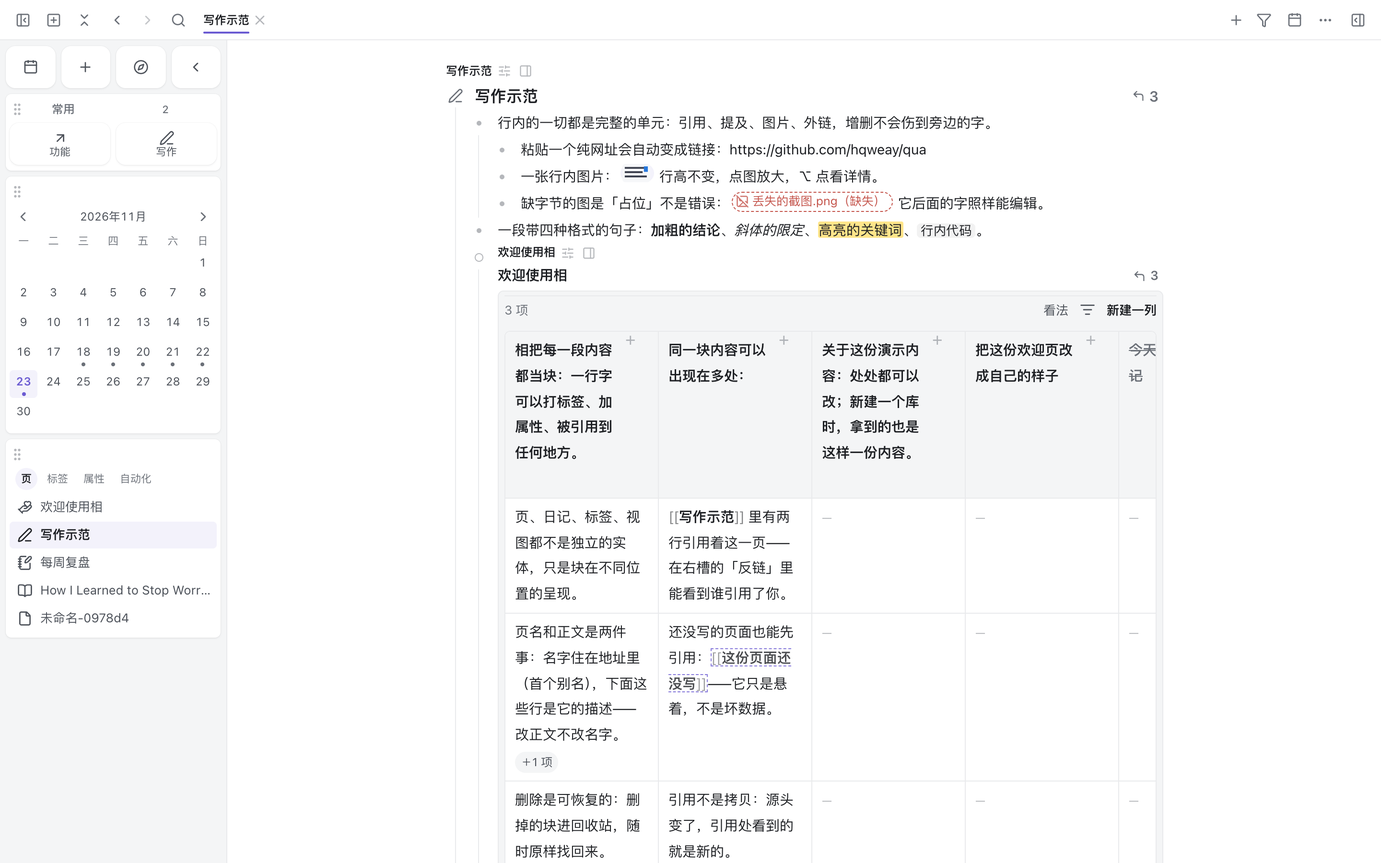
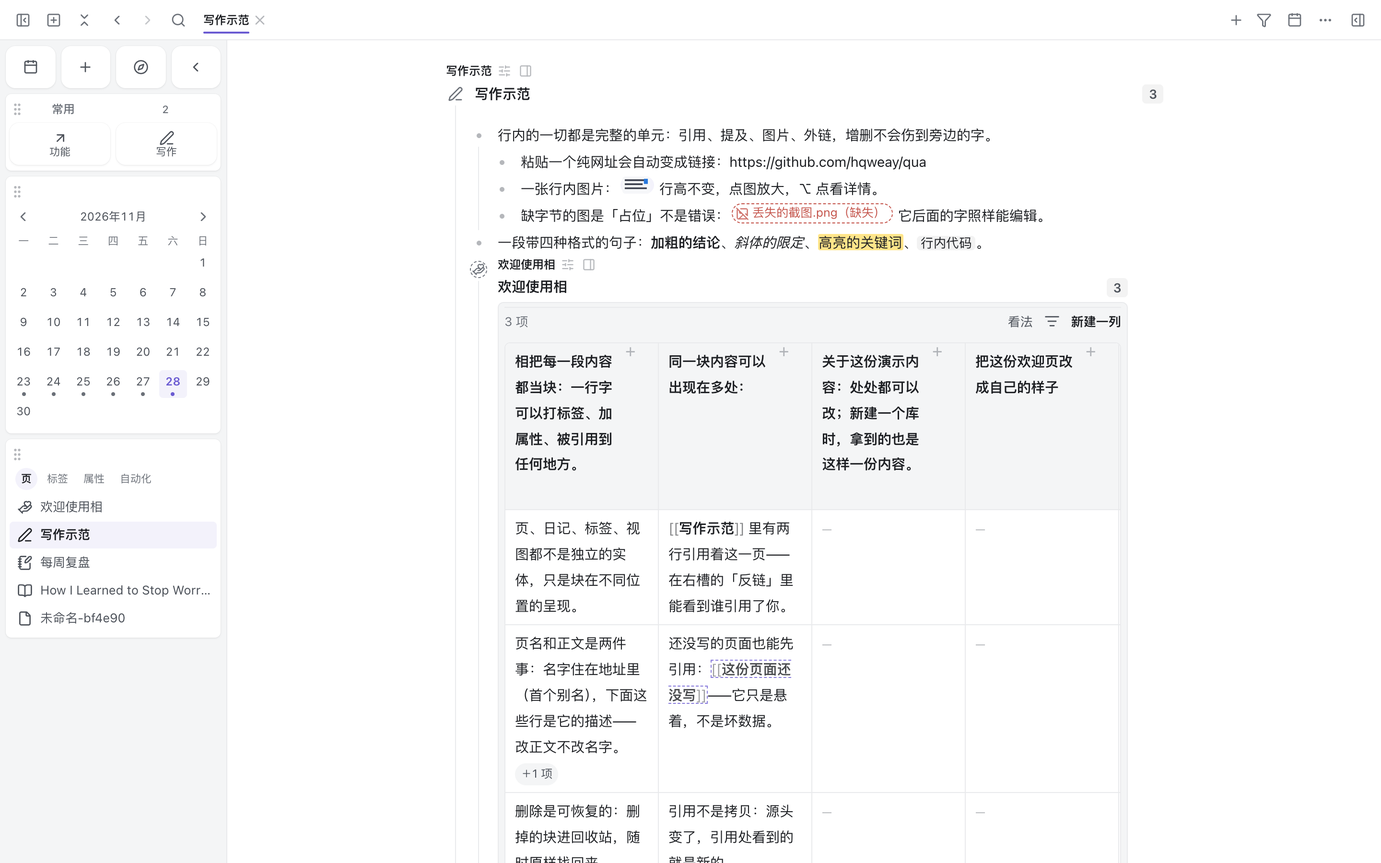
docs: align README, roadmap and the arch diagram with block-owned properties
README (both languages) drops the inspector card, describes the property bar
and the arrow-selection rules, and the roadmap lists only what is actually
left. The arch diagram's dock mock shows a block window and the trash instead
of the retired card. Screenshots are regenerated from the current build,
including a separate English hero image.

diff --git a/public/arch.html b/public/arch.html
@@ -696,7 +696,7 @@
   </div>
 
   <div class="card pad" style="margin-top:18px">
-    <div class="subh">默认布局 <span>左槽＝导航与时间，右槽＝当前块的检视与出处</span></div>
+    <div class="subh">默认布局 <span>左槽＝导航与时间，右槽＝窗口与回收站（反链/成员是页底挂载栏，属性贴在块上）</span></div>
     <div class="mock">
       <div class="slotbox">
         <div class="sh"><span>左槽 · cards</span><span>4 小卡 ＋ 2 卡</span></div>
@@ -714,14 +714,10 @@
         </div>
       </div>
       <div class="slotbox">
-        <div class="sh"><span>右槽 · cards</span><span>3 卡</span></div>
+        <div class="sh"><span>右槽 · cards</span><span>窗口卡 ＋ 1 卡</span></div>
         <div class="mcard solo">
-          <div class="h"><span>检视 · 当前块</span><span class="dots">⌄ ⤢ ✕</span></div>
+          <div class="h"><span>窗口 · 某一块</span><span class="dots">⌄ ⤢ ✕</span></div>
           <div class="b"><div class="l m"></div><div class="l"></div><div class="l s"></div><div class="l"></div></div>
-        </div>
-        <div class="mcard">
-          <div class="h"><span>反链</span><span class="dots">⌄ ⤢ ✕</span></div>
-          <div class="b"><div class="l"></div><div class="l m"></div></div>
         </div>
         <div class="mcard">
           <div class="h"><span>回收站</span><span class="dots">⌄ ⤢ ✕</span></div>
@@ -730,7 +726,7 @@
       </div>
     </div>
     <div class="note" style="margin-top:10px">
-      示意里三件事各示范一处：<b>小卡</b>是格子不是卡片；<b>归属树</b>是「收起」（<code>data-collapsed</code>，body 隐藏、编辑器还在）；<b>检视</b>是「单卡」（槽层 <code>data-solo</code>，其它卡让位但状态不变）。
+      示意里三件事各示范一处：<b>小卡</b>是格子不是卡片；<b>归属树</b>是「收起」（<code>data-collapsed</code>，body 隐藏、编辑器还在）；<b>窗口卡</b>是「单卡」（槽层 <code>data-solo</code>，其它卡让位但状态不变）。
       收起的卡与单卡的目标都<b>按 id 记在设备状态里</b>，所以拖到另一槽、刷新、重开都还在。
     </div>
   </div>

diff --git a/README.en.md b/README.en.md
@@ -6,6 +6,8 @@ A desktop outliner built for notes you'll write once and use again and again.
 
 In Qua, every line you write is an independently actionable unit: tag it, give it properties, reference it from anywhere, drag it into a table or board to rearrange it, or mirror it onto multiple pages. Change it in one place and every place it appears updates in sync—content never gets locked inside the page where you wrote it.
 
+Properties live on the block too: focus a block and a property bar stands up under it, with the empty fields folded into one line; who it is (name, icon, lists) and whom it belongs to live in the properties drawer. Both entries edit the same values, so you never have to hunt for a side panel first.
+
 ![Qua's default interface: the body is an editable tree of blocks, with toggleable side docks on both edges](shots/readme-hero-en.png)
 
 ---
@@ -74,21 +76,21 @@ Switching views never rearranges content, and changing a view never touches data
 
 ## What you can do
 
-**Write**: the body is an editable tree of blocks. Bold, italic, highlight, inline code, text color, and background color all travel with the text; `[[references]]`, `#tags`, `@names`, external links, and images are self-contained inline units, so adding or deleting them never damages the characters nearby—deleting at the end of a line won't break a reference into stray characters, and deleting text won't turn a tag into a handful of `#` symbols. Shortcuts step aside during IME composition, so Chinese input is never interrupted. Select a span of text to add a **note** (comments follow the text) or set a color from the selection bubble; cross-block selections under the same parent block can be deleted or edited directly (the first and last paragraphs merge into one). Select several blocks to drag them as a group, delete them in bulk, or indent them—`⌘⇧A` upgrades "this line's text" to "these blocks".
+**Write**: the body is an editable tree of blocks. Bold, italic, highlight, inline code, text color, and background color all travel with the text; `[[references]]`, `#tags`, `@names`, external links, and images are self-contained inline units, so adding or deleting them never damages the characters nearby—deleting at the end of a line won't break a reference into stray characters, and deleting text won't turn a tag into a handful of `#` symbols. Shortcuts step aside during IME composition, so Chinese input is never interrupted. Select a span of text to add a **note** (comments follow the text) or set a color from the selection bubble; cross-block selections under the same parent block can be deleted or edited directly (the first and last paragraphs merge into one). Select several blocks to drag them as a group, delete them in bulk, or indent them—`⌘⇧A` upgrades "this line's text" to "these blocks". At the start of the text press `↑` again, at the end press `↓`, and the neighbouring block gets selected; keep going and objects (queries, code, callout headers, mirrors) are selected one by one, while a plain text row hands the caret back so you can keep typing.
 
-**Callouts** are line-by-line containers: the header only shows the tone, and clicking it switches among seven tones (quote / info / warning / error / tip / important / note). Every line is its own block with its own id and can be referenced separately; indent one level and it becomes an ordinary block, while the tone's rail runs through the whole group. The tone is a **value**, not a type—a query can filter "callout type = warning" in one condition. The slash menu (/quote), the block menu ("Turn into ▸ Quote"), and pasting Markdown's `>` all produce the same shape.
+**Callouts** are line-by-line containers: the header only shows the tone, and clicking it switches among seven tones (quote / info / warning / error / tip / important / note). Every line is its own block with its own id and can be referenced separately; indent one level and it becomes an ordinary block, while the tone's rail runs through the whole group. The tone is a **value**, not a type—a query can filter "callout type = warning" in one condition. The types themselves are editable: create one from the header menu, give it a name, an icon and a color; the built-in "quote" is the one you can't delete. The slash menu (/quote), the block menu ("Turn into ▸ Quote"), and pasting Markdown's `>` all produce the same shape.
 
 **Code blocks** show their language in a badge on the title row; click the badge to switch (59 languages have real syntax and are searchable). The editing surface is CodeMirror: syntax highlighting, auto-indent, bracket matching, in-block search (`⌘F`), multiple selections, and IME, with undo shared with the rest of the app. The code lives in the block's body and the title is its name; the body folds on its own while the title and language badge stay put. Code blocks hold no bold, references, or tags—it is code, not rich text.
 
 **Paste Markdown** is an explicit command (`⌘P` → "Paste Markdown", or the block menu): headings become a tree of parent and child blocks, lists become indented blocks, `>` becomes a callout, fenced code becomes a code block, and bold / italic / strikethrough / links / inline code land as usual. Syntax the model can't hold yet—tables, task lists—is kept verbatim with a one-line notice: nothing is silently swallowed and nothing pretends to have converted. The default `⌘V` is untouched.
 
-**Body folding** is a second fold position: the button on the row head collapses only the body while the children stay; the triangle on the left collapses the whole subtree. Code blocks and query blocks have bodies, and so can ordinary blocks; the two folds are independent.
+**Body folding** is a second fold position: the button on the row head collapses only the body while the children stay; the triangle on the left collapses the whole subtree. Code blocks and query blocks have bodies, and so can ordinary blocks and field definitions; the two folds are independent.
 
 ![Slash menu: type / at the start of a line to insert a to-do, callout, code block, reference, date, or image in place](shots/overlay-斜杠菜单.png)
 
 **Capture**: quick notes land in today's daily note; `⌘T` brings you back to today any time, `⌘⇧R` reviews the last three days (`⌘⌥⇧R` the last seven); `@` mentions pages and blocks, creating a page on the spot if no page with that name exists; every daily note and page can be given an **icon and color**, so you can tell at a glance what's what. The daily-note host also carries a few built-in sections: references, created today, notes, and mentions.
 
-**Organize**: a block can belong to several tags at once, and tags themselves can be hierarchical. The **Directory** card in the left panel spreads the library's structural objects across four faces—pages, tags, property definitions, automations. The first two lay out the membership tree: dragging a block in adds a membership relation, it doesn't move the block. The last two are flat lists by identity and read-only. Properties are declared on tags, written on each block itself, and edited in place in the inspector card on the right. There are seven property types: text, number, date, switch, option, reference, and attachment. Text can carry formatting (link / email / phone), and dates can be a date or a date-time; text, number, option, reference, and attachment values can hold **multiple values**, shown as a row of chips. A reference property can restrict its candidates (blocks under certain tags, a hand-picked set, or a query's results) and renders as a chip or an inline reference you can edit in place; an attachment value can be an external link or a local image imported into the library. Mark an option field as "task status" and ticking it completes the block, sharing the same interactions and queries as built-in to-dos.
+**Organize**: a block can belong to several tags at once, and tags themselves can be hierarchical. The **Directory** card in the left panel spreads the library's structural objects across four faces—pages, tags, property definitions, automations. The first two lay out the membership tree: dragging a block in adds a membership relation, it doesn't move the block. The last two are flat lists by identity and read-only. Properties are declared on tags, written on each block itself: focus a block and a property bar stands up under it, and the small icons beside the block marker, that bar, and the properties drawer all edit the same values. There are seven property types: text, number, date, switch, option, reference, and attachment. Text can carry formatting (link / email / phone), and dates can be a date or a date-time; text, number, option, reference, and attachment values can hold **multiple values**, shown as a row of chips. Option records carry their own icon and color, and the value icon beside the block marker takes that color. A reference property can restrict its candidates (blocks under certain tags, a hand-picked set, or a query's results) and renders as a chip or an inline reference you can edit in place; an attachment value can be an external link or a local image imported into the library. Mark an option field as "task status" and ticking it completes the block, sharing the same interactions and queries as built-in to-dos.
 
 When references point at the wrong target, you don't have to fix them one by one: the header of the backlinks bar and of a tag's members bar both offer "**Retarget…**"—pick a new target once and that whole batch of references moves over, undoable in one step.
 
@@ -112,7 +114,7 @@ Several kinds of atoms can live inside one block's text. The shape itself carrie
 |---|---|---|
 | `[[Page name]]` | page reference | bold with double brackets; click to go there, `Shift+click` opens it in a dock window |
 | `#Name` | inline tag / inline instance | takes one slot in the text; points at a tag or a record—it does **not** tag the block for you |
-| the chip at line end | tag **membership** | decided by the block's own tags; deleting text doesn't remove it—remove it explicitly in the inspector |
+| the chip at line end | tag **membership** | decided by the block's own tags; deleting text doesn't remove it—remove it explicitly from the block menu or the property bar |
 | the triangle (left of the chip) | this tag has fields | click to fill values in place; tags without fields don't get a triangle |
 | `@Name` | reference to a page or a named block | once an ordinary block has a name, `@` finds it just like a page |
 | image / external link | inline atom | images are content-addressed, so pasting twice stores once; a link opens in your system browser |
@@ -137,6 +139,7 @@ Tags answer "whose content is this"; field values answer "what does this content
 | `⌘F` | inside a code block = in-block search; elsewhere = app search |
 | `⌘Z` / `⌘⇧Z` | undo / redo (while the editor has focus) |
 | `⌘⇧A` | select this line → these blocks |
+| `↑` / `↓` (at the edges of the text) | select the previous / next block; objects are selected one by one, plain text rows hand the caret back |
 | `⌘P` | command palette (also holds actions without a keybinding; palette commands can all be assigned keys in Settings) |
 | `⌘K` | global search (always available; inserting a link lives in the slash menu and block menu) |
 | `⌘T` / `⌘⇧R` | back to today's journal / review the last three days |
@@ -146,7 +149,7 @@ Tags answer "whose content is this"; field values answer "what does this content
 
 Mouse: the block handle sits to the left of each row and turns into a drag grip on hover; left-click focuses, right-click opens the menu, drag reorders. `Shift+click` opens a window in the side dock, `⌥+click` shows property details in place, and `⌘⌥+click` (`Ctrl+Alt+click` on Windows/Linux) opens the block in its parent and scrolls to it. Rows in record views (table / cards / list / calendar) open the same block menu on right-click—the menu opens for the block you clicked, deletion and copying are undoable, and only actions that make sense for a block appear (indent/fold and other editor-dependent ones don't).
 
-Callout behavior lives in the header: click the tone badge to switch variants; the slash menu, block menu, and Markdown paste all create them. Code-block behavior lives in the title row: click the language badge to switch languages; the row-head button folds only the body.
+Callout behavior lives in the header: click the tone badge to switch variants, and the same menu creates and manages your own types. Code-block behavior lives in the title row: click the language badge to switch languages; the row-head button folds only the body.
 
 ---
 

diff --git a/docs/ROADMAP.md b/docs/ROADMAP.md
@@ -3,7 +3,8 @@
 > 这份只写**接下来做什么、按什么顺序**。已做成的能力在 [`../README.md`](../README.md)「能做什么」，
 > 每条约束**为什么存在**在 [`ARCH-断言.md`](ARCH-断言.md) 与 [`模型-一切皆块.md`](模型-一切皆块.md)。
 
-当前阶段：**beta**（桌面安装包从 0.1.0-beta.1 起挂 Releases）。输入面形状与三张表已钉死，桌面端真实存储（SQLite 行存储、多库、全文检索）已落地；这份只列还没做的，已做成的能力看 README 与 STATUS。
+当前阶段：**beta**（桌面安装包从 0.1.0-beta.1 起挂 Releases）。输入面形状与三张表已钉死，
+桌面端真实存储（SQLite 行存储、多库、全文检索）已落地；这份只列还没做的。
 
 ---
 
@@ -20,117 +21,54 @@
 
 ---
 
-## 1 现在这一格：把「引用」变成一等公民
+## 1 现在这一格：数据出得去
 
-### 1.1 RefResolver —— 引用要跟着目标改名 ✅ **已落地**
+「写下来之后还要反复使用」的下限是**内容能完整离开这个应用**：一旦哪次格式升级没保住数据，
+用户手上至少还有一份能带走的文件。这也是「重放等于状态」的第一个真实出口。
 
-**现状**：~~引用的 `label` 是插入时的快照，目标改名后引用还显示旧名。~~
-**已做**：`core/ref.ts` 的 `resolveRef(find, atom)` 在**渲染时**解析目标当前正文，
-`label` 降级为「解析不到时的兜底」；`Atom.state` 落盘字段删掉（能不能解析到是派生的，不落盘）。
-**验收**：改页名 ⇒ 所有引用立刻显示新名（且不回写原子）；目标被删 ⇒ 显示为 dangling 而不是错指。
-（冒烟 `T39`，单测 `tests/ref.test.ts`。）
-
-**已知残留**：解析走 `store.find` 遍历森林（每个引用 O(n)），大库下要等 1.3 的反向索引。
-
-### 1.2 标签＝块上的一格分类 ✅ **已落地**
-
-**现状**：~~`#tag` 只是正文里的文本，所以**标签产生不了反链**。~~
-**已做**：标签＝一个 `_lists` 含 `tag` 的**块**（名字住在 `_aliases`，正文是描述），归属＝打标签那个块上的
-`props._tags`（有序的标签块 id 列表），渲染成行尾 chip（不占正文）。
-判据：**归属只有一份**（`props._tags`），写它的入口只有块级那一处。正文里敲 `#名` 是**提及**：
-一枚占 1 格的引用 run（指向标签类或一条实例），敲下分隔符或回车才生效，**不写归属** ——
-所以提及某个标签不会让这块成为它的成员，也不会长出它的字段。
-两者在显示上同时存在：提及是正文里的一格，chip 是行尾的一枚——同屏可见，形状不同。
-**删字不摘标签**：删掉正文里那枚只是不再提它，归属仍在、chip 不动；摘标签是一次显式动作
-（检视卡的「标签」一行可以挂/摘；摘时把正文里那枚一起收掉）。
-**验收**：给块打标签 ⇒ 它出现在标签的成员列表里；成员是从块上的归属派生出来的。
-（冒烟 `T40`／`T58`／`T58b`，单测 `tests/tags.test.ts`。）
-
-**已知边界**：`#` 的自动补全已落地（`#` 紧接正文触发浮层：实例／标签／新建三栏）；
-`cleanableValues` 的清理提示在「摘标签」入口接上后仍未回到面板（派生有单测）。
-（字段声明与标签层级已落地，见 1.4。）
-
-### 1.3 IndexPort —— 反链不再全库扫 ✅ **已落地**
-
-**现状**：~~每次算反链都扫全库，`rebuild` 与 `incremental` 没有一致性保证。~~
-**已做**：`core/index-port.ts` 的五张派生表（块 / 入向边 / 标签成员 / 名字与日期 / 归属页），
-`BlockStore` 懒重建缓存；`find` 与反链改走查表，不再遍历森林。
-**验收**：同一批操作，先 rebuild 再与增量累积结果**逐字节一致** —— 已兑现，
-并覆盖四个增量失效点（文本编辑 / 原子增删 / 目标删除 / 块移动）。
-
-**粒度说明**：变化通知目前只能报「整类对象都动过」，所以增量只能做到「没动的那一类不重建」。
-按块粒度要等事务层产出具体的块 id；那时 `applyChanges` 的形状不变。
-
-**顺带修掉的真 bug**：删页会直接改森林、再换视图，而「换视图」不发变更通知 ⇒
-索引停在旧库上，**删掉的页仍能被查到**。现在两条旁路都显式作废索引。
-
-> 1.1 → 1.2 → 1.3 有依赖：先有「解析」，才谈得上「边的语义」，最后才谈得上「索引」。
-> **三条都已完成。**
-
-### 1.4 标签 / 页 / 属性的统一 ✅ **已落地**
-
-**已做**：**地址与露面分开**——名字住在 `props._aliases`（0..N，首个是主名，全局唯一，允许 `/` 分段、
-显示叶子），正文（`content` 的文本投影）是描述；页/标签是 `props._lists` 里的两个**露面**（可兼位、可空，顺序无语义，
-判定只走 `hasList` 家族）· 行头的**别名编辑器**（加/删名字、设主名、勾页/标签列表、切换显示别名或文本）·
-页与标签共用**地址空间**（`_aliases` ＋ 一处归一化，`# 设计 `／`#设计`／`[[设计]]` 同一块）·
-字段定义是**独立块**（有 `_kind` 的块，住森林顶层，`propId` ＝ 块 id）· 值在块上 `props[propId]`（一块一槽）·
-属性平铺 ＋ 来源标注（同一 `propId` 只一行；画在**右槽的检视卡**上，跟着当前对象走）· 摘标签提示清理（默认保留，可撤销）·
-标签层级（属于/包含，一条边两个读法；成员**算作**、**字段不继承**；写入禁环；删父留可见悬空）。
-
-**验收**：`tests/alias.test.ts` · `tests/lists.test.ts` · `tests/props.test.ts` · `tests/tag-tree.test.ts`；
-冒烟 `T39`（显示名与改名）· `T51`（属性区）· `T52`（层级与算作）· `T53`（列表露面）。
-
-**已知边界**：`ref` 值的专用选择器与选项编辑器已落地（候选域、多值、图标入口）；字段定义列表视图（按露面筛选）后置。
-
----
-
-## 2 真实存储（桌面版已落地，余浏览器端）
-
-### 2.1 Tx / Changes —— ~~写盘不再整库序列化~~（桌面版已落地）
-
-**现状**：桌面版已经不是整库序列化了 —— 每个库一份 `qua.db`，块是**自己的行**
-（`Block`／`BlockProperty`／`BlockAlias`／`BlockList`），一次编辑只写它动过的那几块。
-**验收**：`tests/storage/db-rows.test.ts`（小库与大库的落盘行数必须相同）＋
-`checks/electron-smoke.mjs` 的 E12（真 Electron 里数行）。
-**还剩**：浏览器端仍是整份字节（浏览器没有库目录的同等语义）；`Change[]` 仍可能报「整类都动过」
-（那是「确实不知道」的如实表达，不是漏做）。
-
-### 2.2 SQLite 适配器 —— ~~已完成~~（桌面版就是它）
-
-端口不变、只换实现已经做到：`createWorkspaceStore(createIpcAdapter(...))`，**renderer 的业务代码一行没改**。
-**还剩**：装载仍是整份读（运行模型是「整片森林在内存」）；按 id／按页的局部装载要等查询与反链也走 SQL。
-
-### 2.3 备份 / 导出
+### 1.1 导出 / 备份文件（未做）
 
 **现状**：读盘失败会进只读态（不覆盖）；开发构建的调试菜单已有「备份并重建本地库」——
-原始字节先抄到 `qua.workspace.bak.<时刻>`，备份失败就中止覆盖。
-**还缺**：用户面的「把当前库导出成文件」出口。这是数据安全的下限，不该排在很后面。
+原始字节先抄到 `qua.workspace.bak.<时刻>`，备份失败就中止覆盖；换数据格式前桌面版会自动
+在库目录 `backups/` 留一份整库快照。**还缺**：用户面的「把当前库导出成文件」出口。
+
+**要做**：JSON（块 ＋ 属性 ＋ 资产清单）＋ `assets/` 字节的一份打包，round-trip 进门禁
+（导出的库重新导入后与导出前逐块相等）。顺手拍三个小口径：快照是否打包资产字节、
+恢复后全文索引回 `pending` 重建、资产回收与导出文件的关系。
+
+### 1.2 Markdown 导出（口径已定，未实现）
+
+单向投影，不是 round-trip：页／日记一文件，页标题 `#`，内容按嵌套列表投影，
+子页单独成文件并以链接相连；代码块按围栏、引述按引用块投影，自定义语气在文件里降级成普通引述。
+**不做**「缩进深度 → 标题层级」。JSON 才是往返格式，Markdown 是给人看的。
 
 ---
 
-## 3 输入面的未完成项
+## 2 壳与发布
+
+- **签名与公证**（现在 `.app` 未签名，换机器会被 Gatekeeper 拦；Windows 同理）
+- **自动更新** ✅ **已落地（0.1.0-beta.9 起）**：通知 ＋ 应用内下载——每 5 小时查一次发布源，
+  有新版菜单换成「有新版 X…」；点开可把本平台的安装包下载到「下载」文件夹并打开，
+  下载中 Dock／任务栏显示进度，最后一步安装由用户完成。
+  **还缺**：**后台下载→重启即完成仍要等签名**——macOS 上那一步由系统组件完成，
+  它判断「新包是不是我发的」只看代码签名，未签名的包装不进去。
+- **CSP 收紧**（现在 `default-src 'self'` 够用，但还没逐项审）
+- **深色跟随系统**在真机上复核一次
+
+---
+
+## 3 输入面与大文档的余项
 
 | 项 | 现状 | 要做 |
 |---|---|---|
-| **跨块编辑** | 同一父块下的跨块选区可以直接删改（首尾两段拼成一块）；跨父块、或首块是段根（页／日记正文第一层）时仍不支持 | 把这两类边界补上 |
-| **`⌘F` 就地查找** | 全局搜索住 `⌘K`，命令面板住 `⌘P`；`⌘F` 无绑定（契约上留给就地查找/替换） | 落进「上下文键」而不是全局劫持 |
-| **多行块（代码/SQL）** | 只有单行原子 | 独立编辑器实例，**不塞进同一个 contenteditable** |
-| **虚拟化滚动联动** | 已窗口化挂载，但滚动与选区投影没有联动 | 见 `docs/ELECTRON-备忘.md` 里实测到的「组合期块被卸载」 |
-| **Undo 粒度** | ✅ 按事务记 touched 块的前后态，⌘Z 与库体量无关 | — |
+| **跨块编辑的边界** | 同一父块下的跨块选区可以直接删改（首尾两段拼成一块）；跨父块、或首块是段根（页／日记正文第一层）时仍不支持 | 把这两类边界补上 |
+| **虚拟化的默认档** | 已窗口化挂载，行高按实测缓存；开关仍默认关。日记流／多段文档还有两处估高缺口（段间留白、折行长块） | 先补段边界与折行估高，再谈默认打开 |
+| **装载形状** | 启动仍把整片森林读进内存 | 按 id／按页的局部装载，等查询与反链也走 SQL |
+| **行内语义尺寸** | 没有「同一行里放大／缩小几个字」的格式位 | 等真实需求（导出／打印逐段保真）再立项 |
 
 ---
 
-## 4 壳与发布
-
-- **签名与公证**（现在 `.app` 未签名，换机器会被 Gatekeeper 拦）
-- **CSP 收紧**（现在 `default-src 'self'` 够用，但还没逐项审）
-- **深色跟随系统**在真机上复核一次（当前环境测不出媒体查询的变化）
-- **自动更新** ✅ **已落地（0.1.0-beta.9 起）**：通知 ＋ 应用内下载——每 5 小时查一次发布源，有新版菜单换成「有新版 X…」；点开可把本平台的安装包下载到「下载」文件夹并打开，下载中 Dock／任务栏显示进度，最后一步安装由用户完成。
-  **还缺**：**后台下载→重启即完成仍要等签名**——macOS 上那一步由系统组件完成，它判断「新包是不是我发的」只看代码签名，未签名的包装不进去。
-
----
-
-## 5 明确**不做**（至少现在）
+## 4 明确**不做**（至少现在）
 
 | 不做 | 为什么 |
 |---|---|
@@ -139,10 +77,11 @@
 | 皮肤 / 主题市场 | 主题只填 `--ui-*` 的机制已经在了，等真正有第三方需求再说 |
 | 兼容旧落盘格式 | 原型阶段 `WORKSPACE_VERSION` 加一即作废，写迁移是纯负债 |
 | 移动端 | 要等「事务 + 同步」落地之后；现在做只能做出一个分叉的模型 |
+| 云同步 / 插件 / AI | 只保接缝：写入走 op 流、视图配置可序列化、命令面是唯一入口 |
 
 ---
 
-## 6 怎么贡献
+## 5 怎么贡献
 
 挑 `§1`–`§3` 里任意一条开 issue 说你要做哪条、打算怎么验。
 **判断标准写在验收那一行**——如果你的实现能让那条验收从「不成立」变成「成立」，它就是对的。

diff --git a/README.md b/README.md
@@ -8,6 +8,9 @@
 拖进表格或看板重新排列、镜像到多个页面。改动任何一处，所有出现它的地方同步更新——
 内容不会被锁死在写下它的那个页面里。
 
+属性也长在块上：聚焦一块，它下面立起属性栏，没填的栏收成一行；它是谁（名字、图标、露面）
+与它属于谁在属性抽屉里。两个入口改的是同一份值，不需要先找到一张旁栏。
+
 ![相 / Qua 的默认界面：正文是一棵可编辑的块树，两侧是可开关的侧槽](shots/readme-hero.png)
 
 ---
@@ -105,11 +108,14 @@
 选中一段字，还能从划选气泡里写**备注**（批注跟字走）或设置颜色；
 同一父块下的跨块选区可以直接删改（首尾两段拼成一块）。选中多块可以整组拖动、
 批量删除与缩进——`⌘⇧A` 把「这一行的字」升级成「这些块」。
+光标在正文开头再按 `↑`、在结尾再按 `↓`，就地选中上／下一块；一路按下去，
+对象（查询、代码、引述抬头、镜像）逐个选中，碰到普通正文行则落回光标继续打字。
 
 **引述**是一行一行的容器：抬头只画语气，点开在七种语气之间切换
 （引述／信息／警告／错误／提示／重要／注意）。每一行都是独立的块，有自己的 id，
 可以单独被引用；缩进一层就是普通块，语气竖线贯穿整组。语气是**值**不是类型——
-查询条件里能按「引述类型」一次筛出所有警告。斜杠 `/引文`、块菜单「转为 ▸ 引文」、
+查询条件里能按「引述类型」一次筛出所有警告。类型本身也能改：在抬头菜单里新建一种，
+给它取名、换图标与颜色，内置的「引述」保底不可删。斜杠 `/引文`、块菜单「转为 ▸ 引文」、
 粘贴 Markdown 的 `>` 三条入口造的是同一个形状。
 
 **代码块**把语言写在标题行的徽章上，点徽章就能换（59 门有真实语法，可搜）。
@@ -124,7 +130,7 @@
 按原文保留，并给一句提示——不静默吞掉，也不假装转换成功。默认 `⌘V` 不动。
 
 **身体折叠**是第二个折叠位：行头那颗按钮只收身体，子块还在；左侧三角才收整棵子树。
-代码块、查询块有身体，普通块也能有；两者互不牵连。
+代码块、查询块有身体，普通块与定义块也能有；两者互不牵连。
 
 ![斜杠菜单：行首敲 /，就地插入待办、引述、代码块、引用、日期、图片](shots/overlay-斜杠菜单.png)
 
@@ -135,9 +141,11 @@
 **组织**：一个块可以同时属于多个标签，标签自己也能有层级。左槽的**目录**把库里的
 结构对象摊成四面：页、标签、属性定义、自动化——前两面按归属边摊成树，把块拖进去
 就是加一条归属，不是搬家；后两面按身份平铺，只读。属性声明在标签上，值写在每块
-自己身上，在右侧检视卡里就地编辑。属性有七种：文本、数字、日期、开关、选项、引用、附件。
+自己身上：聚焦一块时它下面立起属性栏，块标旁那几枚小图标、行下那一栏与属性抽屉改的是
+同一份值。属性有七种：文本、数字、日期、开关、选项、引用、附件。
 文本可以带格式（链接／邮箱／电话），日期可以是日期或日期时间；
 文本、数字、选项、引用、附件都能存**多个值**，显示成一行 chips。
+选项记录自己带图标与颜色，块左侧那枚值图标就按它染。
 引用类型的属性可以限定候选范围（某些标签下、指定几个块、或一个查询的结果），
 显示成 chip 或就地可编辑的行内引用；附件类型的值可以贴外链，也可以选本地图片入库。
 把一个选项字段标为「任务状态」后，勾选即完成，和内置待办走同一套交互与查询。
@@ -181,7 +189,7 @@
 |---|---|---|
 | `[[页名]]` | 页引用 | 粗体＋双方括号；点开即达，`Shift+点击` 在侧槽开窗 |
 | `#名字` | 行内标签／行内实例 | 占正文一格；指向标签或一条记录，**不会**替你打上标签 |
-| 行尾 chip | 标签**归属** | 由块自己的标签决定；删掉正文里的字不会摘掉它，要摘得在检视卡里显式摘 |
+| 行尾 chip | 标签**归属** | 由块自己的标签决定；删掉正文里的字不会摘掉它，要摘得在块菜单或属性栏里显式摘 |
 | 三角（在 chip 左侧） | 这个标签有字段 | 点开就地填值；没有字段的标签不硬画三角 |
 | `@名字` | 引用页或取过名的块 | 给普通块起名之后，它和页一样能被 `@` 到 |
 | 图片／外链 | 行内原子 | 图片按内容寻址，贴两次只存一份；外链点一下交给系统浏览器 |
@@ -207,6 +215,7 @@
 | `⌘F` | 在代码块里＝块内搜索；在别处＝应用搜索 |
 | `⌘Z` / `⌘⇧Z` | 撤销 / 重做（编辑器聚焦时） |
 | `⌘⇧A` | 选中这一行 → 这些块 |
+| `↑` / `↓`（正文首尾处） | 选中上／下一块；对象逐个选中，普通正文行落回光标 |
 | `⌘P` | 命令面板（没绑键的动作也在这里；面板里的命令都能在设置里配键） |
 | `⌘K` | 全局搜索（随时可用；插入链接在斜杠菜单和块菜单里） |
 | `⌘T` / `⌘⇧R` | 回到今日日记 / 复盘最近三天 |
@@ -220,7 +229,7 @@
 记录视图（表格／卡片／列表／日历）里的行也能右键同一张块菜单——菜单按被点的那一块打开，
 删除与复制都进撤销；只出现对块有意义的动作（缩进／折叠这类需要编辑器的不会出现）。
 
-引述的行为在抬头上：点语气徽章换变体；斜杠、块菜单、粘贴 Markdown 都能造。
+引述的行为在抬头上：点语气徽章换变体，同一张菜单里也能新建与管理自己的类型。
 代码块的行为在标题行：点语言徽章换语言，行头按钮只折身体。
 
 ---

diff --git a/docs/设计-Widget.md b/docs/设计-Widget.md
@@ -84,7 +84,8 @@ Shift+点＝临时打开（重启即清，除非 pin）。
 盘的 body 也是这个流（§3）——它不新增第二种排版。
 
 默认左槽：四个快捷（回到今日／新建页面／命令面板／前一天）＋ 日历 ＋ 归属树；
-右槽：检视卡 ＋ 反链。
+右槽：回收站。反链与成员是页底／块窗口底部的挂载栏（跟着内容走），块属性贴在块上
+（聚焦时的行下属性栏与属性抽屉），两者都不进槽。
 
 ---
 
@@ -241,8 +242,8 @@ Shift+点＝临时打开（重启即清，除非 pin）。
 **静置只剩「上下文」**：按钮淡出、永远占位，悬停这张卡／键盘聚焦时进场；显形前后列与右缘不动
 （A24 的列不变量在显形时刻成立），没有「半颗按钮透明仍占位」的虚边（那条虚边是早先
 `✕` 用 `opacity: 0` 的实测坑）。静置时卡头若显示文字，唯一职责是说出**正文看不出的上下文**
-（窗口卡的块路径、盘的小卡数）——正文自己报得出名字的卡（日历／归属树／反链／回收站／
-检视／搜索）静置只剩把手标（grip），名字随 hover 进场：让「日历」压在月份导航上，
+（窗口卡的块路径、盘的小卡数）——正文自己报得出名字的卡（日历／归属树／回收站／
+搜索）静置只剩把手标（grip），名字随 hover 进场：让「日历」压在月份导航上，
 等于在卡顶叠两套对齐语法的头，名字读作漂浮的碎字。没有字的把手条由 grip 站出来——
 把手条本来就是把手。**收起的卡＝它的头**，全键与标题常驻。
 卡头不能整条隐藏或浮在内容上：把手会压住正文第一行（日历的月份导航、窗口卡的首行

diff --git a/AGENTS.md b/AGENTS.md
@@ -274,8 +274,8 @@ pnpm gate:bundle    # gate ＋ 打包产物冒烟（慢，单列）
   gate 验的是 commit；② 绿的是「锁内拿到的那个 HEAD」，绿了那个 commit 就可发布；③ 排队不阻塞写代码，
   但**一个逻辑单元一笔 commit**——攒一大坨再排队，红了照样归不了账。
 
-**收工必须 `pnpm gate` 全绿**（当前基线：lint **0/0** · arch **33/33** · test:core **1831/1831** ·
-浏览器冒烟 **401/401** · dock **28/28** · electron **23/23**）。
+**收工必须 `pnpm gate` 全绿**（当前基线：lint **0/0** · arch **33/33** · test:core **1869/1869** ·
+浏览器冒烟 **413/413** · dock **28/28** · electron **23/23**；2026-11-28 全量 330.1s）。
 
 - **`gate` 是编排出来的，不是一条 `&&` 链**（`scripts/gate.mjs`）：彼此独立的检查按产物依赖分三段、
   段内**并发**，冒烟那些用例**按序切片**成几片同时跑。快的来源是并发，不是少跑——断言一条没动。

diff --git a/docs/模型-一切皆块.md b/docs/模型-一切皆块.md
@@ -276,8 +276,9 @@ renderBlock(block, ctx)   // 外观按**类型**、chrome 按身份标记（iden
 ### 3.2 槽
 
 ```ts
-// ui/dock.ts          槽：排一列块卡
-// ui/dock-content.ts  左槽＝今日、右槽＝反链（都只是「往槽里排块」）
+// ui/dock/dock.ts  槽：排一列卡（小卡与卡同一个流）
+// 卡只有三种：命令快捷／派生卡（日历、归属树、回收站）／块窗口（Shift+点击开的那个块）
+// 反链与成员不是卡：它们是页底／块窗口底部的挂载栏，跟着内容走
 ```
 
 ### 3.3 反链
